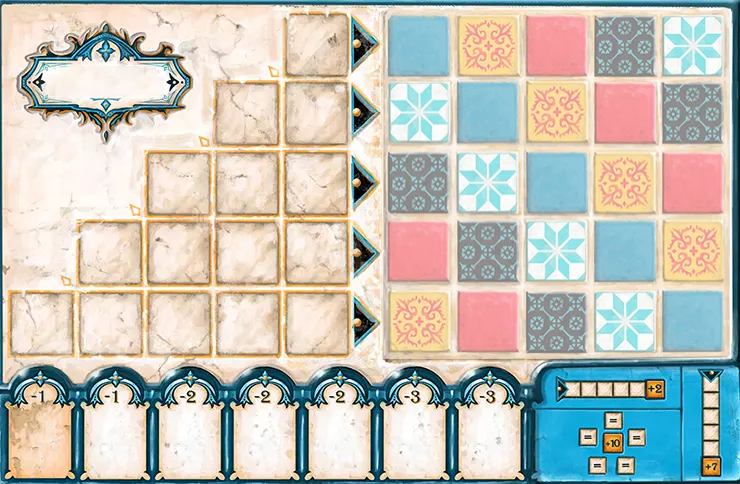
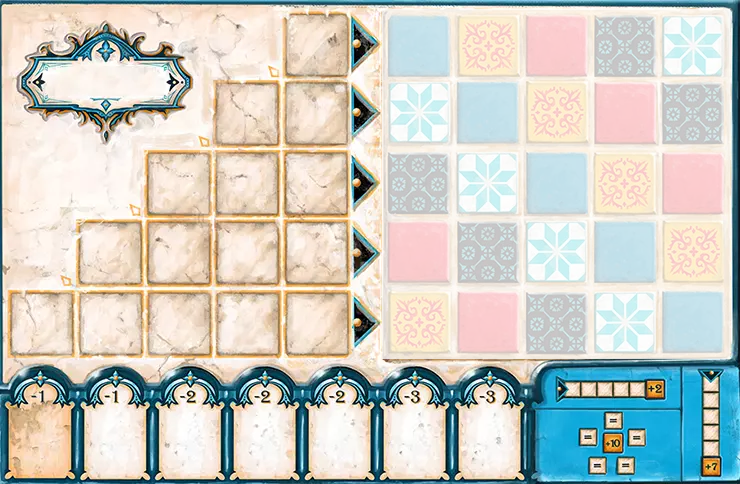
Connecting GUI to Board : displaying board state is working fine

Changed region(s): [[0.4973, 0.0, 0.9946, 0.7438]]

diff --git a/GUI.cpp b/GUI.cpp
@@ -36,6 +36,7 @@ Window GUI::init(){
 
 void GUI::displayTile(int j, int x, int y, double fact) {
     displayImage(4+j,x,y,fact);
+
     drawRect(x-1,y-1,TILE_SIDE+2,TILE_SIDE+2,BLACK);
     drawRect(x-2,y-2,TILE_SIDE+4,TILE_SIDE+4,WHITE);
     drawRect(x-3,y-3,TILE_SIDE+6,TILE_SIDE+6,BLACK);
@@ -59,51 +60,85 @@ void GUI::displayFactories(bool circles){
     }
 }
 
-void GUI::displayWalls(){
-    for (int x = 0; x < NB_COLORS; x++){
-        for (int y = 0; y < NB_COLORS; y++){
-            displayTile(rand()%NB_COLORS, PLAYERBOARD_X0 + WALL_X0 + x*WALL_SPACING, WALL_Y0 + y*WALL_SPACING);
-            displayTile(rand()%NB_COLORS, PLAYERBOARD_X0 + WALL_X0 + x*WALL_SPACING, PLAYERBOARD_HEIGHT + WALL_Y0 + y*WALL_SPACING);
+void GUI::displayWalls(Board *board){
+    for (byte p = 0; p < NB_PLAYERS; p++){
+        for (byte x = 0; x < NB_COLORS; x++){
+            for (byte y = 0; y < NB_COLORS; y++){
+                if (board->wallTileFilled(p, y, x)){
+                    displayTile(wallColumnToColor(x,y),
+                                PLAYERBOARD_X0 + WALL_X0 + x*WALL_SPACING,
+                                p*PLAYERBOARD_HEIGHT + WALL_Y0 + y*WALL_SPACING);
+                }
+            }
         }
     }
 }
 
-void GUI::displayPatterns(){
-    for (int x = 0; x < NB_COLORS; x++){
-        for (int y = NB_COLORS-x-1; y < NB_COLORS; y++){
-            displayTile(rand()%NB_COLORS, PLAYERBOARD_X0 + PATTERN_X0 + x*WALL_SPACING, PATTERN_Y0 + y*WALL_SPACING);
-            displayTile(rand()%NB_COLORS, PLAYERBOARD_X0 + PATTERN_X0 + x*WALL_SPACING, PLAYERBOARD_HEIGHT + PATTERN_Y0 + y*WALL_SPACING);
+void GUI::displayPatterns(Board *board){
+    for(byte p = 0; p < NB_PLAYERS; p++){
+        for (byte y = 0; y < WALL_HEIGHT; y++){
+            for (byte x = WALL_HEIGHT - board->getPatternLineNb(p,y); x < WALL_HEIGHT; x++){
+                displayTile(board->getPatternLineColor(p,y),
+                            PLAYERBOARD_X0 + PATTERN_X0 + x*WALL_SPACING,
+                            p*PLAYERBOARD_HEIGHT + PATTERN_Y0 + y*WALL_SPACING);
+            }
         }
     }
 }
 
-void GUI::displayFloors(){
-    for (int x = 0; x < FLOOR_SIZE; x++){
-        displayTile(rand()%NB_COLORS, PLAYERBOARD_X0 + FLOOR_X0 + x*FLOOR_SPACING, FLOOR_Y0);
-        displayTile(rand()%NB_COLORS, PLAYERBOARD_X0 + FLOOR_X0 + x*FLOOR_SPACING, PLAYERBOARD_HEIGHT + FLOOR_Y0);
+void GUI::displayFloors(Board *board){
+    for(byte player=0; player<NB_PLAYERS; player++){
+        for(byte x=0; x<FLOOR_SIZE; x++){
+            byte color = board->getFloorTile(player*FLOOR_SIZE+x);
+            if(color == NB_COLORS+1)
+                break;
+            displayTile(color, PLAYERBOARD_X0 + FLOOR_X0 + x*FLOOR_SPACING, player*PLAYERBOARD_HEIGHT + FLOOR_Y0);
+        }
     }
 }
 
-void GUI::displayFactoryTiles(IntPoint2 factory_p0){
+void GUI::displayFactoryTiles(byte factory, Board *board){
+    IntPoint2 unityroot = IntPoint2(int(FACTORY_RADIUS*cos(- M_PI/2 + 2*M_PI*factory/NB_FACTORIES)),
+                          int(FACTORY_RADIUS*sin(- M_PI/2 + 2*M_PI*factory/NB_FACTORIES)));
+    IntPoint2 factory_p0 = FACTORY_CENTER+unityroot-FACTORY_CENTERING;
+
+    byte tiles_to_place[NB_TILES_PER_FACTORY];
+    for (byte i = 0; i < NB_TILES_PER_FACTORY; i++){
+        tiles_to_place[i] = 255;
+    }
+
+    byte color = 0;
+    byte i = 0;
+    byte j = 0;
+    while (i < NB_TILES_PER_FACTORY and color < NB_COLORS){
+        j = board->getFactoryTile(factory,color);
+        while (j > 0){
+            tiles_to_place[i] = color;
+            i++;
+            j--;
+        }
+        color++;
+    }
+
     for (int x = -1; x < 1; x++){
         for (int y = -1; y < 1; y++){
-            displayTile(rand()%NB_COLORS,factory_p0.x() + FACTORY_SIDE/2 + x*(FACTORY_MARGIN+TILE_SIDE)+FACTORY_MARGIN/2,
-                        factory_p0.y() + FACTORY_SIDE/2 + y*(FACTORY_MARGIN+TILE_SIDE) + FACTORY_MARGIN/2);
+            if (tiles_to_place[(1+x)*2+(1+y)] < 255){
+                displayTile(tiles_to_place[(1+x)*2+(1+y)],
+                            factory_p0.x() + FACTORY_SIDE/2 + x*(FACTORY_MARGIN+TILE_SIDE) + FACTORY_MARGIN/2,
+                            factory_p0.y() + FACTORY_SIDE/2 + y*(FACTORY_MARGIN+TILE_SIDE) + FACTORY_MARGIN/2);
+            }
         }
     }
 
 }
 
-void GUI::displayAllFactoryTiles(){
-    IntPoint2 unityroot = IntPoint2(1,0);
-    for (int k = 0; k < NB_FACTORIES; k++){
-        unityroot = IntPoint2(int(FACTORY_RADIUS*cos(- M_PI/2 + 2*M_PI*k/NB_FACTORIES)),
-                              int(FACTORY_RADIUS*sin(- M_PI/2 + 2*M_PI*k/NB_FACTORIES)));
-        displayFactoryTiles(FACTORY_CENTER+unityroot-FACTORY_CENTERING);
+void GUI::displayAllFactoryTiles(Board *board){
+    for (byte factory = 0; factory < NB_FACTORIES; factory++){
+        displayFactoryTiles(factory, board);
     }
 }
 
-void GUI::displayTileInfo(IntPoint2 P0, Color bg_color, int tiles[NB_COLORS]){
+void GUI::displayTileInfo(IntPoint2 P0, Color bg_color, byte tiles[NB_COLORS]){
     fillRect(P0, 5*WALL_SPACING + WALL_MARGIN, BAG_SIDE, bg_color);
     for (int x = 0; x < NB_COLORS; x++){
         if (tiles[x] > 0){
@@ -118,18 +153,30 @@ void GUI::displayTileInfo(IntPoint2 P0, Color bg_color, int tiles[NB_COLORS]){
     }
 }
 
-void GUI::displayMiddleTiles(int tiles[NB_COLORS], bool first_not_claimed){
+void GUI::displayMiddleTiles(Board* board){
+    byte tiles[NB_COLORS];
+    for (byte color = 0; color < NB_COLORS; color++){
+        tiles[color] = board->getFactoryTile(NB_FACTORIES, color);
+    }
     displayTileInfo(MIDDLE_P0,MIDDLE_COLOR, tiles);
-    if (first_not_claimed){
+    if (board->getTile1() == NB_PLAYERS){
         displayTile(NB_COLORS, WINDOW_HEIGHT/2 - TILE_SIDE/2, WINDOW_HEIGHT/2 - TILE_SIDE/2);
     }
 }
 
-void GUI::displayBagContent(int tiles[NB_COLORS]){
+void GUI::displayBagContent(Board *board){
+    byte tiles[NB_COLORS];
+    for (byte color = 0; color < NB_COLORS; color++){
+        tiles[color] = board->getBagTile(color);
+    }
     displayTileInfo(BAG_CONTENT_P0, BAG_CONTENT_COLOR, tiles);
 }
 
-void GUI::displayDiscard(int tiles[NB_COLORS]){
+void GUI::displayDiscard(Board *board){
+    byte tiles[NB_COLORS];
+    for (byte color = 0; color < NB_COLORS; color++){
+        tiles[color] = board->getDiscardedTile(color);
+    }
     displayTileInfo(DISCARD_P0, DISCARD_COLOR, tiles);
 }
 
@@ -141,5 +188,20 @@ void GUI::displayGrid(){
     drawLine(0, WINDOW_HEIGHT - BAG_SIDE, WINDOW_HEIGHT, WINDOW_HEIGHT - BAG_SIDE, BLACK);
     drawLine(BAG_SIDE, 0, BAG_SIDE, WINDOW_HEIGHT, BLACK);
     drawLine(WINDOW_HEIGHT - BAG_SIDE, 0, WINDOW_HEIGHT - BAG_SIDE, WINDOW_HEIGHT, BLACK);
+}
+
+void GUI::displayBoardState(Board *board){
+    displayPlayerboards();
+    displayBag(0, WINDOW_HEIGHT-BAG_SIDE);
+    displayGamebox(WINDOW_HEIGHT-BAG_SIDE, WINDOW_HEIGHT-BAG_SIDE);
+    displayFactories();
+
+    displayWalls(board);
+    displayPatterns(board);
+    displayFloors(board);
+    displayAllFactoryTiles(board);
+    displayMiddleTiles(board);
+    displayBagContent(board);
+    displayDiscard(board);
 }
 

diff --git a/GUI.h b/GUI.h
@@ -10,7 +10,7 @@ using namespace Imagine;
 
 // GUI Parameters
 
-const double ZOOM = 1;
+const double ZOOM = 0.8;
 
 const int PLAYERBOARD_WIDTH = int(740*ZOOM);
 const int PLAYERBOARD_HEIGHT = int(484*ZOOM);
@@ -130,24 +130,28 @@ public:
     void displayPlayerboards();
     /// Display NB_FACTORIES factories in a circle
     void displayFactories(bool circles = false);
+
     /// Display walls for both players
-    void displayWalls();
+    void displayWalls(Board* board);
     /// Display patterns for both players
-    void displayPatterns();
+    void displayPatterns(Board *board);
     /// Display floors for both players
-    void displayFloors();
+    void displayFloors(Board* board);
     /// Display tiles in one factories
-    void displayFactoryTiles(IntPoint2 factory_p0);
+    void displayFactoryTiles(byte factory, Board *board);
     /// Display tiles in all factories
-    void displayAllFactoryTiles();
+    void displayAllFactoryTiles(Board *board);
     /// Display a box with all Tile colors and numbers
-    void displayTileInfo(IntPoint2 P0, Color bg_color, int tiles[]);
+    void displayTileInfo(IntPoint2 P0, Color bg_color, byte tiles[]);
     /// Display tiles in the middle
-    void displayMiddleTiles(int tiles[], bool first_not_claimed);
+    void displayMiddleTiles(Board *board);
     /// Display remaining tiles in bag
-    void displayBagContent(int tiles[]);
+    void displayBagContent(Board *board);
     /// Display discard
-    void displayDiscard(int tiles[]);
+    void displayDiscard(Board *board);
+
+    /// Display everything
+    void displayBoardState(Board *board);
 
     /// Display grid for designing UI
     void displayGrid();

diff --git a/main.cpp b/main.cpp
@@ -42,26 +42,18 @@ int main(){
 //    cout<<"nombre de parties nulles: "<<winner[1]<<endl;
 //    cout<<"nombre de parties gagnees par le joueur 2: "<<winner[2]<<endl;
 
-    int random_tiles[NB_COLORS] = {rand()%5, rand()%5, rand()%5, rand()%5, rand()%5};
-    int random_tiles_2[NB_COLORS] = {rand()%5, rand()%5, rand()%5, rand()%5, rand()%5};
-    int random_tiles_3[NB_COLORS] = {rand()%5, rand()%5, rand()%5, rand()%5, rand()%5};
+    Controller** players = new Controller*[NB_PLAYERS];
+    Heuristic smart_player1(0);
+    Heuristic smart_player2(0);
+    players[0] = &smart_player1;
+    players[1] = &smart_player2;
+
+    Board board;
+    play_game(&board,players);
 
     GUI gui;
     gui.init();
-
-    gui.displayPlayerboards();
-    gui.displayBag(0, WINDOW_HEIGHT-BAG_SIDE);
-    gui.displayGamebox(WINDOW_HEIGHT-BAG_SIDE, WINDOW_HEIGHT-BAG_SIDE);
-    gui.displayFactories();
-    gui.displayWalls();
-    gui.displayPatterns();
-    gui.displayFloors();
-    gui.displayAllFactoryTiles();
-    gui.displayMiddleTiles(random_tiles, true);
-    gui.displayBagContent(random_tiles_2);
-    gui.displayDiscard(random_tiles_3);
-
-    //gui.displayGrid();
+    gui.displayBoardState(&board);
 
     endGraphics();
     return 0;

diff --git a/board.h b/board.h
@@ -87,7 +87,7 @@ public:
     byte nbFloorTiles() const;
     bool wallTileFilled(byte player, byte line, byte column) const{return walls[player*WALL_SIZE+line*WALL_HEIGHT+column];}
     /// returns 0 if the first player wins 1 if the scaond wins and 1 if its a draw
-    byte winner() const{return (scores[0]<scores[1])+(scores[0]<=scores[1]);};
+    byte winner() const{return (scores[0]<scores[1])+(scores[0]<=scores[1]);}
 
     /// Checks if it is the end of the round
     bool endOfTheRound();
@@ -135,8 +135,7 @@ public:
     void addMalus(byte malus, byte player);
 
     /// End the turn of the current player
-    void nextPlayer(){current_player = (current_player+1)%NB_PLAYERS;};
-
+    void nextPlayer(){current_player = (current_player+1)%NB_PLAYERS;}
 };
 
 

diff --git a/controller.cpp b/controller.cpp
@@ -68,7 +68,7 @@ void Heuristic::play_move(Board* board){
         arg_fact[i] = -1;
     }
 
-    for(int factory=0; factory<=NB_FACTORIES; factory++){
+    for(byte factory=0; factory<=NB_FACTORIES; factory++){
         for(int col=0; col<NB_COLORS; col++){
             if(board->getFactoryTile(factory,col)>0){
                 possible_draw[col*NB_TILES_PER_COLOR+board->getFactoryTile(factory,col)-1] = true;

diff --git a/board.cpp b/board.cpp
@@ -51,7 +51,7 @@ Board::Board(){
 
 
 byte Board::nbFloorTiles() const{
-    for(int pos=0; pos<FLOOR_SIZE; pos++){
+    for(byte pos=0; pos<FLOOR_SIZE; pos++){
         if(getFloorTile(pos))
             return pos+1;
     }
